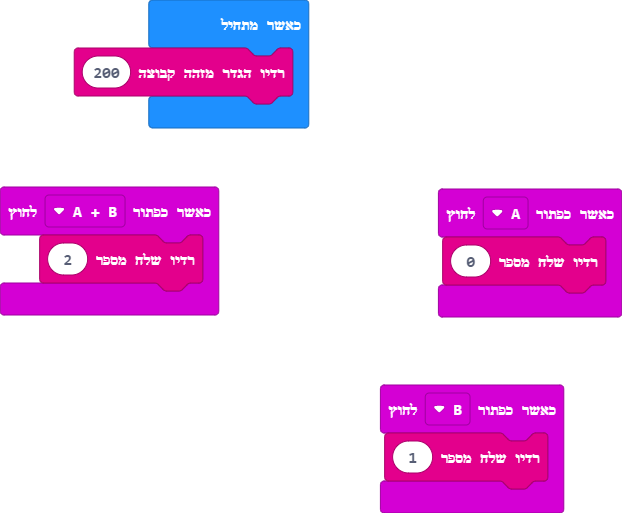
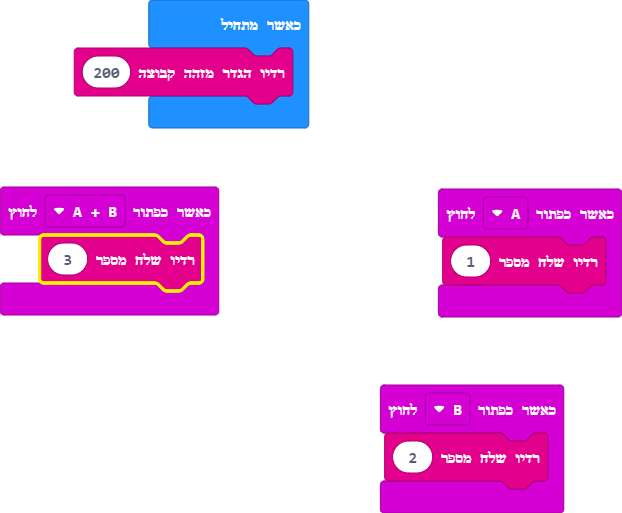
Update main.blocks, main.ts

Changed region(s): [[0.0611, 0.4366, 0.336, 0.5926], [0.7331, 0.499, 0.7637, 0.5302]]

diff --git a/main.ts b/main.ts
@@ -1,10 +1,10 @@
 input.onButtonPressed(Button.A, function () {
-    radio.sendNumber(0)
+    radio.sendNumber(1)
 })
 input.onButtonPressed(Button.AB, function () {
-    radio.sendNumber(2)
+    radio.sendNumber(3)
 })
 input.onButtonPressed(Button.B, function () {
-    radio.sendNumber(1)
+    radio.sendNumber(2)
 })
 radio.setGroup(200)
